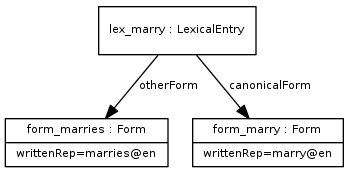
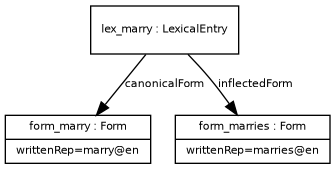
Add `inflectedForm` property
Fixes #61

Changed region(s): [[0.0, 0.0296, 1.0, 0.9763]]

diff --git a/index.md b/index.md
@@ -652,7 +652,22 @@ which we call [=other forms=]:
 </div>
 </div>
 
-For example, we may specify non-canonical forms of the verb *(to) marry*
+A specific subproperty of [=other form=] is the property [=inflected form=], which indicates that the
+form is an inflected form of the lexical entry. This property is a subproperty of [=other form=] and should be used to indicate inflected forms of a lexical entry.
+
+<div class="entity" about="ontolex:inflectedForm" typeof="owl:ObjectProperty">
+<objectProperty property="rdfs:label" lang="en">Inflected Form</objectProperty>
+
+<div property="rdfs:comment"> The <dfn>inflected form</dfn> property relates a lexical entry to an inflected form that realizes the given lexical entry. </div>
+
+<div class="description">
+<domain>[=Lexical Entry=]</domain>
+<range>[=Form=]</range>
+<subproperty>[=other form=]</subproperty>
+</div>
+</div>
+
+For example, we may specify inflected forms of the verb *(to) marry*
 as follows:
 
 <aside class="example">
@@ -662,7 +677,7 @@ desc](Examples/ontolex/example7.png)](Examples/ontolex/example7.png){.tn}
 ```turtle
 :lex_marry a ontolex:LexicalEntry ;
   ontolex:canonicalForm :form_marry ;
-  ontolex:otherForm :form_marries .
+  ontolex:inflectedForm :form_marries .
 
 :form_marry a ontolex:Form;
      ontolex:writtenRep "marry"@en .
